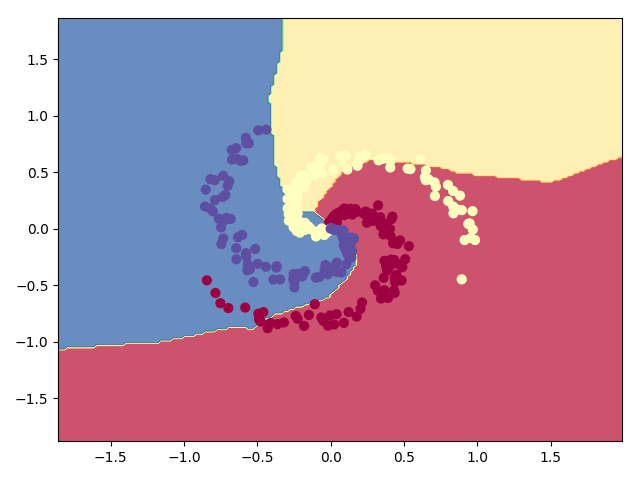
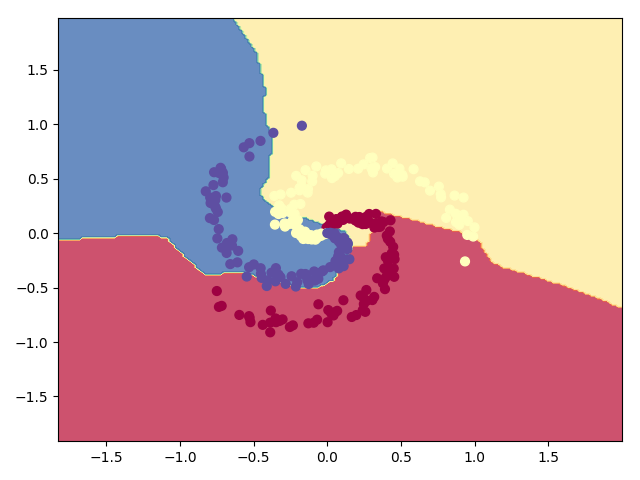
neuro-evolution images

diff --git a/fmga_neuro.py b/fmga_neuro.py
@@ -60,9 +60,9 @@ if __name__ == '__main__':
 
         return -(data_loss + reg_loss)
 
-    bounds = [(-4, 4) for _ in range((D*h + h + h*K + K))]
-    best_params = fmga.maximize(cross_entropy_loss, dimensions=(D*h + h + h*K + K), population_size=200, iterations=20,
-                                boundaries=bounds, mutation_range=0.5, mutation_probability=0.15, multiprocessing=False)
+    bounds = [(-7, 7) for _ in range(D*h + h + h*K + K)]
+    best_params = fmga.maximize(cross_entropy_loss, dimensions=(D*h + h + h*K + K), population_size=500, iterations=20,
+                                boundaries=bounds, mutation_range=1, mutation_probability=0.15, elite_fraction=0.15)
     print(best_params.fitness)
 
     W = best_params.coordinates[:D*h].reshape(D, h)
@@ -90,4 +90,4 @@ if __name__ == '__main__':
     plt.xlim(xx.min(), xx.max())
     plt.ylim(yy.min(), yy.max())
     plt.show()
-    fig.savefig('fmga_spiral_neuro.png')
+    # fig.savefig('fmga_spiral_neuro.png')

diff --git a/README.md b/README.md
@@ -2,18 +2,17 @@
 An assortment of genetic algorithms - all written from scratch, for Python 3.5.
 ### Objective Function Maximization
 
-![](functionplot.png)  ![](fmga_spiral_neuro.png)  
-A neural network trained by **fmga** by code in **fmga_neuro.py**, inspired by [this](http://cs231n.github.io/neural-networks-case-study/) exercise.
+![](functionplot.png)  
 
 **fmga** is a genetic algorithms package for arbitrary function maximization.  
 fmga is available on PyPI - latest version 2.4.0 - and now supports multiprocessing!   
 ```bash
 pip install fmga
 ```
-For more details, please see the README in the **fmga** subdirectory.
+Then, use with:
 ```python
 import fmga
-fmga.maximize(f, population_size=200, multiprocessing=True)
+fmga.maximize(f, population_size=200, iterations=40, multiprocessing=True)
 ```
 The objective function doesn't have to be differentiable, or even continuous in the specified domain!  
 The population of multi-dimensional points undergoes random mutations - and is selected through elitism and raking selection with selection weights 
@@ -22,6 +21,11 @@ inversely proportional to fitness and diversity ranks.
 **fmga_plots.py** contains relevant code on obtaining surface plots of the function (if 2-dimensional), initial population and final population graphs, as well as line plots of mean population fitness 
 and L1 diversity through the iterations.  
 Completely customizable - licensed under the MIT License.
+
+![](fmga_spiral_neuro.png)  
+A neural network trained by **fmga** by code in **fmga_neuro.py**, inspired by [this](http://cs231n.github.io/neural-networks-case-study/) exercise.
+
+See the README in the **fmga** subdirectory for more details.
 
 ### Minimum Vertex Cover for Graphs
 **vertex_cover.py** gives a genetic algorithm heuristic to the well-known NP-Complete Minimum Vertex Cover problem - given a graph, find a subset of its vertices such that every edge has an endpoint in this subset.  
